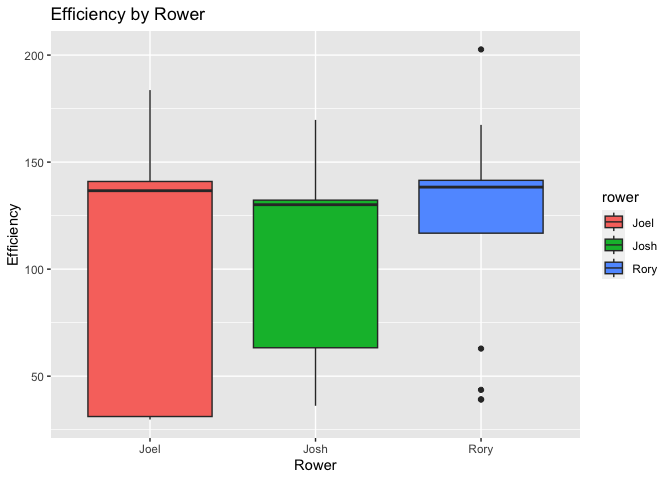
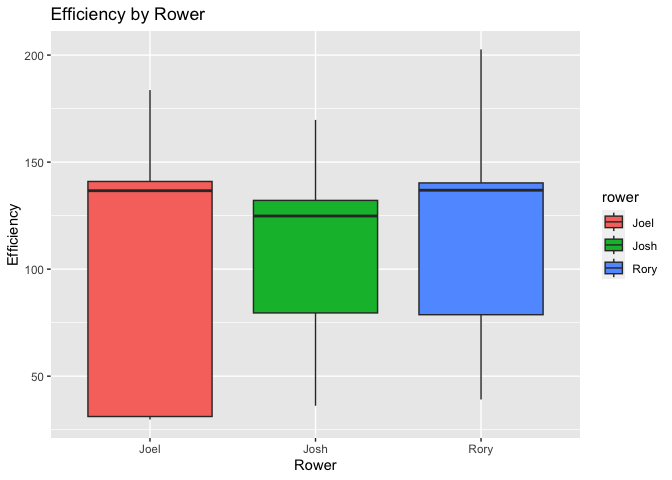
update

diff --git a/row-tracking.md b/row-tracking.md
@@ -19,7 +19,7 @@ skim(rowing_data)
 |                                                  |             |
 |:-------------------------------------------------|:------------|
 | Name                                             | rowing_data |
-| Number of rows                                   | 50          |
+| Number of rows                                   | 58          |
 | Number of columns                                | 6           |
 | \_\_\_\_\_\_\_\_\_\_\_\_\_\_\_\_\_\_\_\_\_\_\_   |             |
 | Column type frequency:                           |             |
@@ -39,18 +39,18 @@ Data summary
 
 **Variable type: numeric**
 
-| skim_variable | n_missing | complete_rate |    mean |     sd |  p0 |    p25 |  p50 |     p75 | p100 | hist  |
-|:--------------|----------:|--------------:|--------:|-------:|----:|-------:|-----:|--------:|-----:|:------|
-| erg_no        |         0 |             1 |    2.10 |   1.11 |   1 |    1.0 |    2 |    3.00 |    6 | ▇▃▁▁▁ |
-| time_mins     |         0 |             1 |    9.12 |   3.93 |   3 |    4.0 |   12 |   12.00 |   12 | ▃▁▁▁▇ |
-| distance      |         0 |             1 | 2263.66 | 914.57 | 833 | 1091.5 | 2837 | 3011.25 | 3535 | ▇▂▁▇▇ |
-| stroke_rate   |         0 |             1 |   22.78 |   3.99 |  14 |   22.0 |   22 |   26.00 |   30 | ▁▃▇▂▅ |
+| skim_variable | n_missing | complete_rate |    mean |     sd |  p0 |     p25 |    p50 |     p75 | p100 | hist  |
+|:--------------|----------:|--------------:|--------:|-------:|----:|--------:|-------:|--------:|-----:|:------|
+| erg_no        |         0 |             1 |    2.16 |   1.12 |   1 |    1.00 |    2.0 |    3.00 |    6 | ▇▃▁▁▁ |
+| time_mins     |         0 |             1 |    8.97 |   3.66 |   3 |    4.50 |   12.0 |   12.00 |   12 | ▃▁▂▁▇ |
+| distance      |         0 |             1 | 2241.66 | 849.94 | 833 | 1230.75 | 2586.5 | 2995.75 | 3535 | ▇▂▅▇▇ |
+| stroke_rate   |         0 |             1 |   23.22 |   3.86 |  14 |   22.00 |   22.0 |   26.00 |   30 | ▁▃▇▆▅ |
 
 **Variable type: POSIXct**
 
-| skim_variable | n_missing | complete_rate | min        | max        | median     | n_unique |
-|:--------------|----------:|--------------:|:-----------|:-----------|:-----------|---------:|
-| date          |         0 |             1 | 2023-10-09 | 2023-11-07 | 2023-10-17 |        8 |
+| skim_variable | n_missing | complete_rate | min        | max        | median              | n_unique |
+|:--------------|----------:|--------------:|:-----------|:-----------|:--------------------|---------:|
+| date          |         0 |             1 | 2023-10-09 | 2023-11-14 | 2023-10-24 12:00:00 |        9 |
 
 ``` r
 calculate_days_between <- function(data) {
@@ -119,8 +119,8 @@ print(summary_stats)
     ##   rower avg_speed avg_efficiency total_distance total_time avg_burnout_index
     ##   <chr>     <dbl>          <dbl>          <dbl>      <dbl>             <dbl>
     ## 1 Joel       264.           95.8          43147        168               Inf
-    ## 2 Josh       240.          109.           29294        126               Inf
-    ## 3 Rory       254.          123.           40742        162               Inf
+    ## 2 Josh       246.          102.           37738        158               Inf
+    ## 3 Rory       256.          114.           49131        194               Inf
 
 ``` r
 ggplot(processed_data, aes(x = date, y = burnout_index, color = rower)) +
@@ -175,7 +175,7 @@ ggplot(processed_data, aes(x = date, y = speed, color = rower)) +
 speed_model <- lmer(speed ~ days_between_sessions + (1 + days_between_sessions|rower), data=processed_data)
 ```
 
-    ## boundary (singular) fit: see ?isSingular
+    ## boundary (singular) fit: see help('isSingular')
 
 ``` r
 speed_model <- lmer(speed ~ days_between_sessions + (1|rower), data=processed_data)
@@ -186,26 +186,26 @@ summary(speed_model)
     ## Formula: speed ~ days_between_sessions + (1 | rower)
     ##    Data: processed_data
     ## 
-    ## REML criterion at convergence: 436.3
+    ## REML criterion at convergence: 505.6
     ## 
     ## Scaled residuals: 
-    ##     Min      1Q  Median      3Q     Max 
-    ## -2.4141 -0.6643  0.0060  0.7629  1.9607 
+    ##      Min       1Q   Median       3Q      Max 
+    ## -2.65036 -0.61056 -0.04959  0.79691  1.78699 
     ## 
     ## Random effects:
     ##  Groups   Name        Variance Std.Dev.
-    ##  rower    (Intercept) 110.1    10.49   
-    ##  Residual             389.9    19.74   
-    ## Number of obs: 50, groups:  rower, 3
+    ##  rower    (Intercept)  61.3     7.83   
+    ##  Residual             383.1    19.57   
+    ## Number of obs: 58, groups:  rower, 3
     ## 
     ## Fixed effects:
     ##                       Estimate Std. Error t value
-    ## (Intercept)           255.6378     6.8204  37.481
-    ## days_between_sessions  -1.4254     0.8085  -1.763
+    ## (Intercept)           257.0432     5.3452  48.088
+    ## days_between_sessions  -0.8808     0.6941  -1.269
     ## 
     ## Correlation of Fixed Effects:
     ##             (Intr)
-    ## dys_btwn_ss -0.196
+    ## dys_btwn_ss -0.229
 
 ``` r
 # Visualizations
